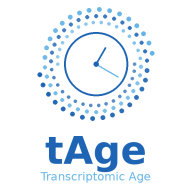
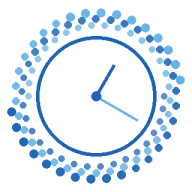
Deploying to gh-pages from @ Gladyshev-Lab/tAge@33127b9637307932ca65af30b01c72646c033adf 🚀

Changed region(s): [[0.0312, 0.0312, 0.9688, 0.9688], [0.5312, 0.25, 0.5625, 0.2812], [0.375, 0.4375, 0.4062, 0.4688]]

diff --git a/index.html b/index.html
@@ -67,7 +67,7 @@
 </h1>
 </div>
 <p align="center">
-<img src="reference/figures/logo.png" alt="tAge logo" width="300"></p>
+<img src="reference/figures/logo-full.png" alt="tAge logo" width="300"></p>
 <p>R package for transcriptomic biological age prediction from gene expression data, implementing the transcriptomic clocks from <a href="https://doi.org/10.1038/s41586-026-10542-3" class="external-link">Tyshkovskiy et al. (2026), <em>Nature</em></a>.</p>
 <p>The clocks predict two kinds of biological age from bulk RNA-seq (or pseudobulk single-cell) expression: <strong>chronological age</strong> and <strong>expected mortality</strong>. tAge handles preprocessing, normalisation, gene mapping across species, and prediction with the pre-trained Elastic Net (EN) and Bayesian Ridge (BR) models.</p>
 <div class="section level2">

diff --git a/index.md b/index.md
@@ -1,6 +1,6 @@
 # tAge
 
-![tAge logo](reference/figures/logo.png)
+![tAge logo](reference/figures/logo-full.png)
 
 R package for transcriptomic biological age prediction from gene
 expression data, implementing the transcriptomic clocks from
